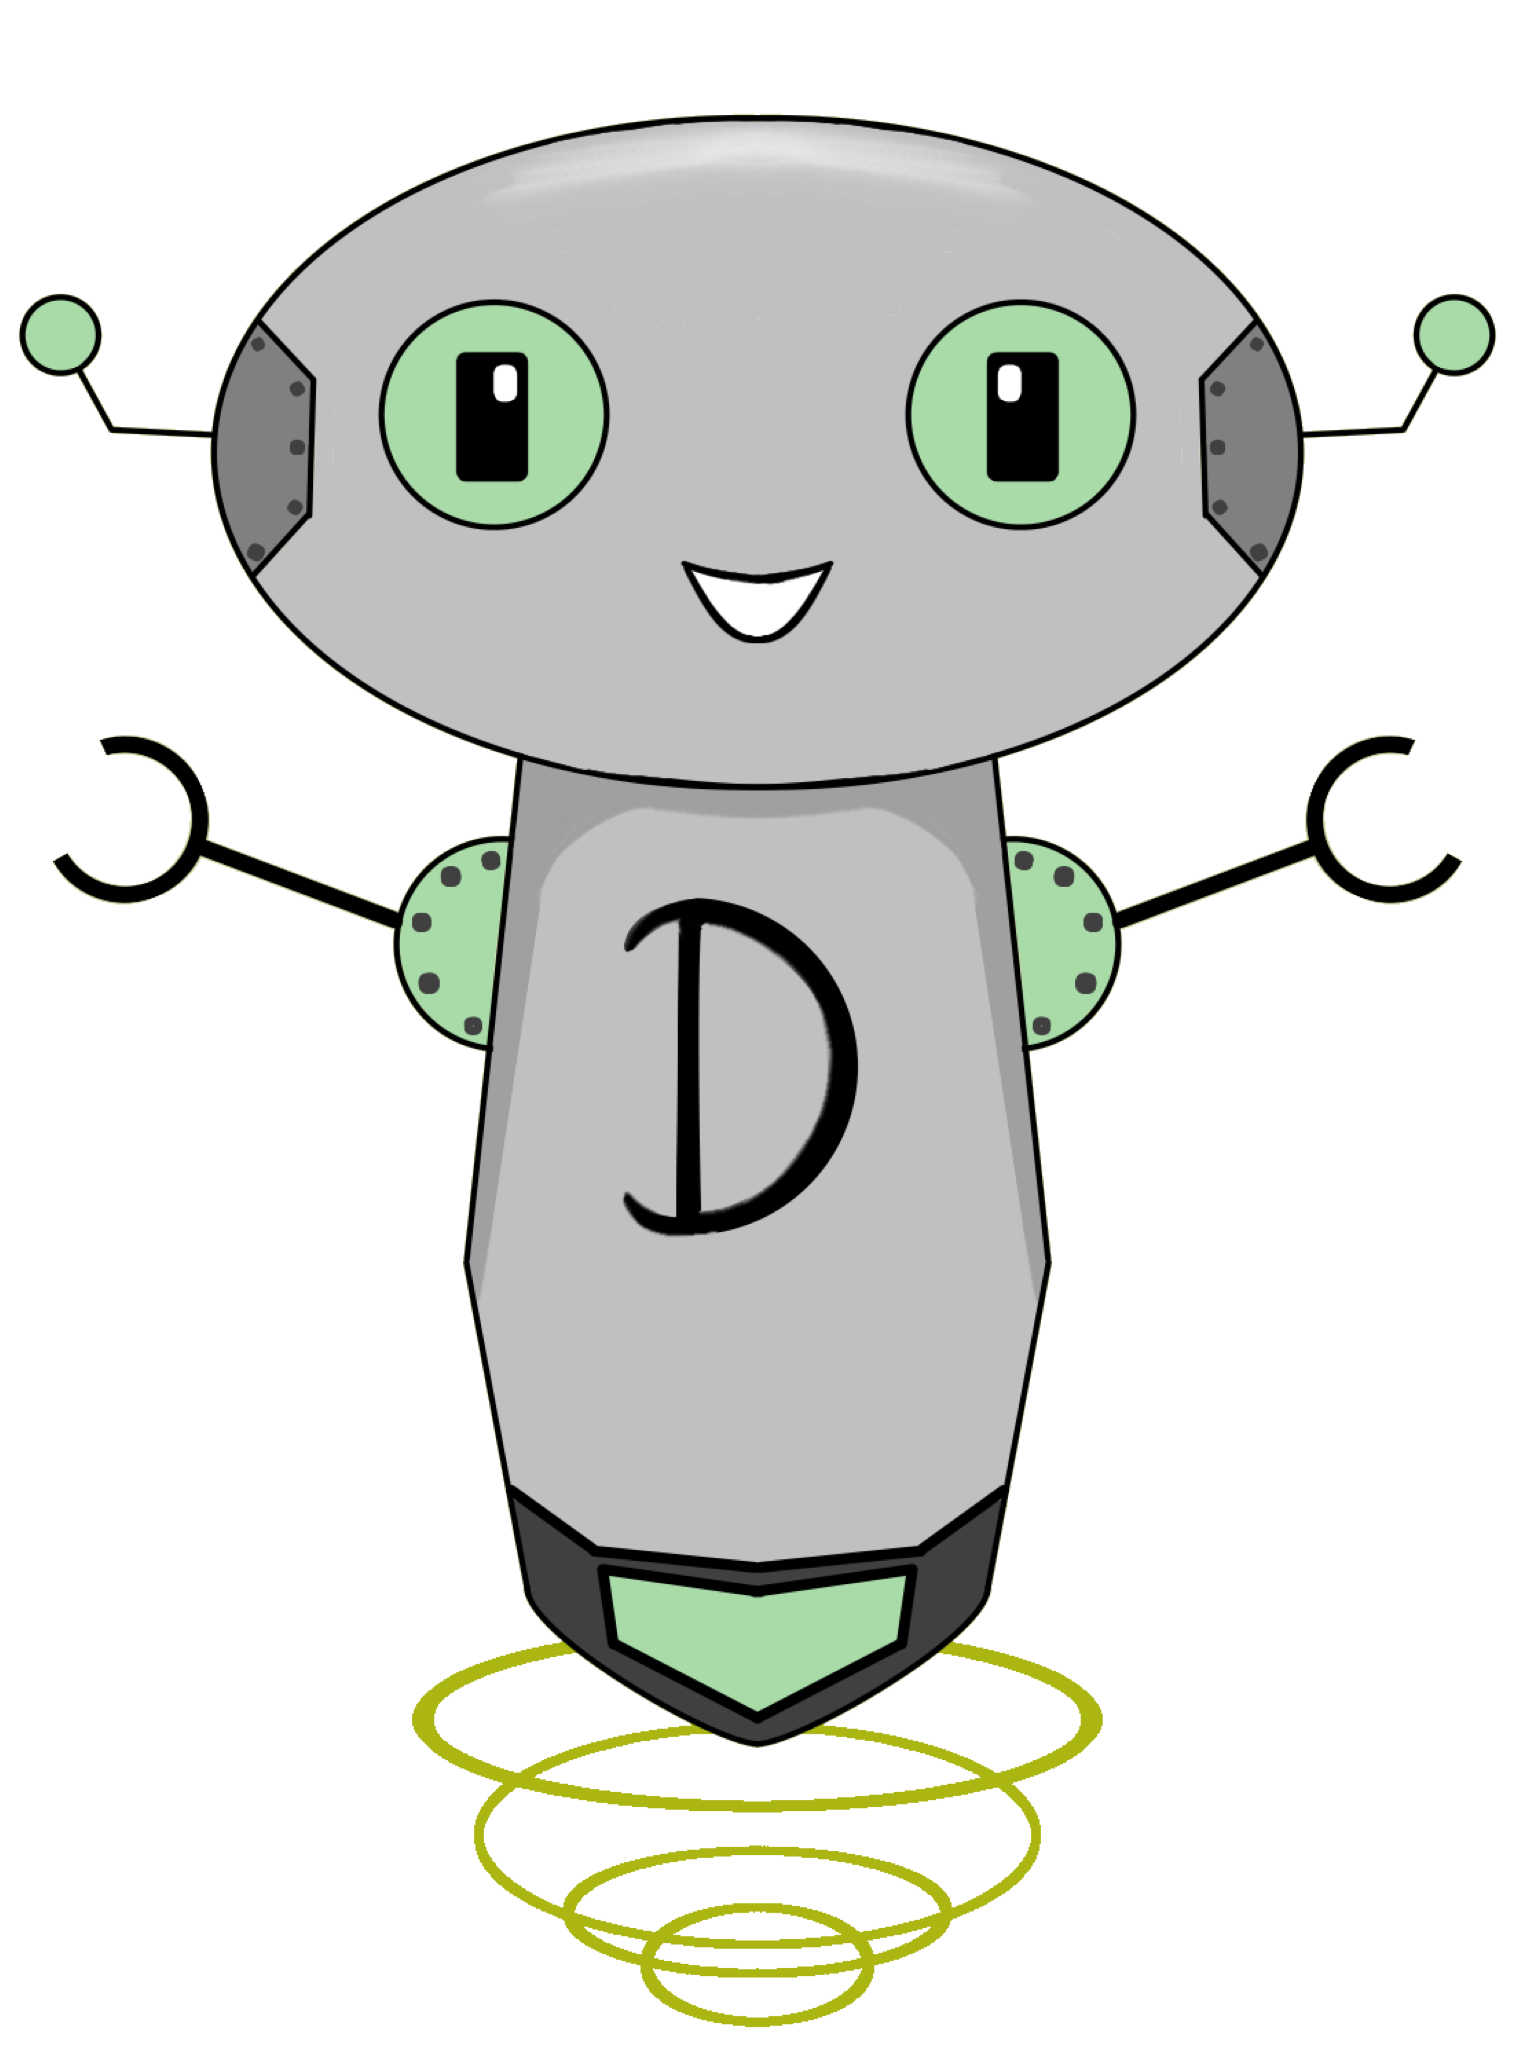
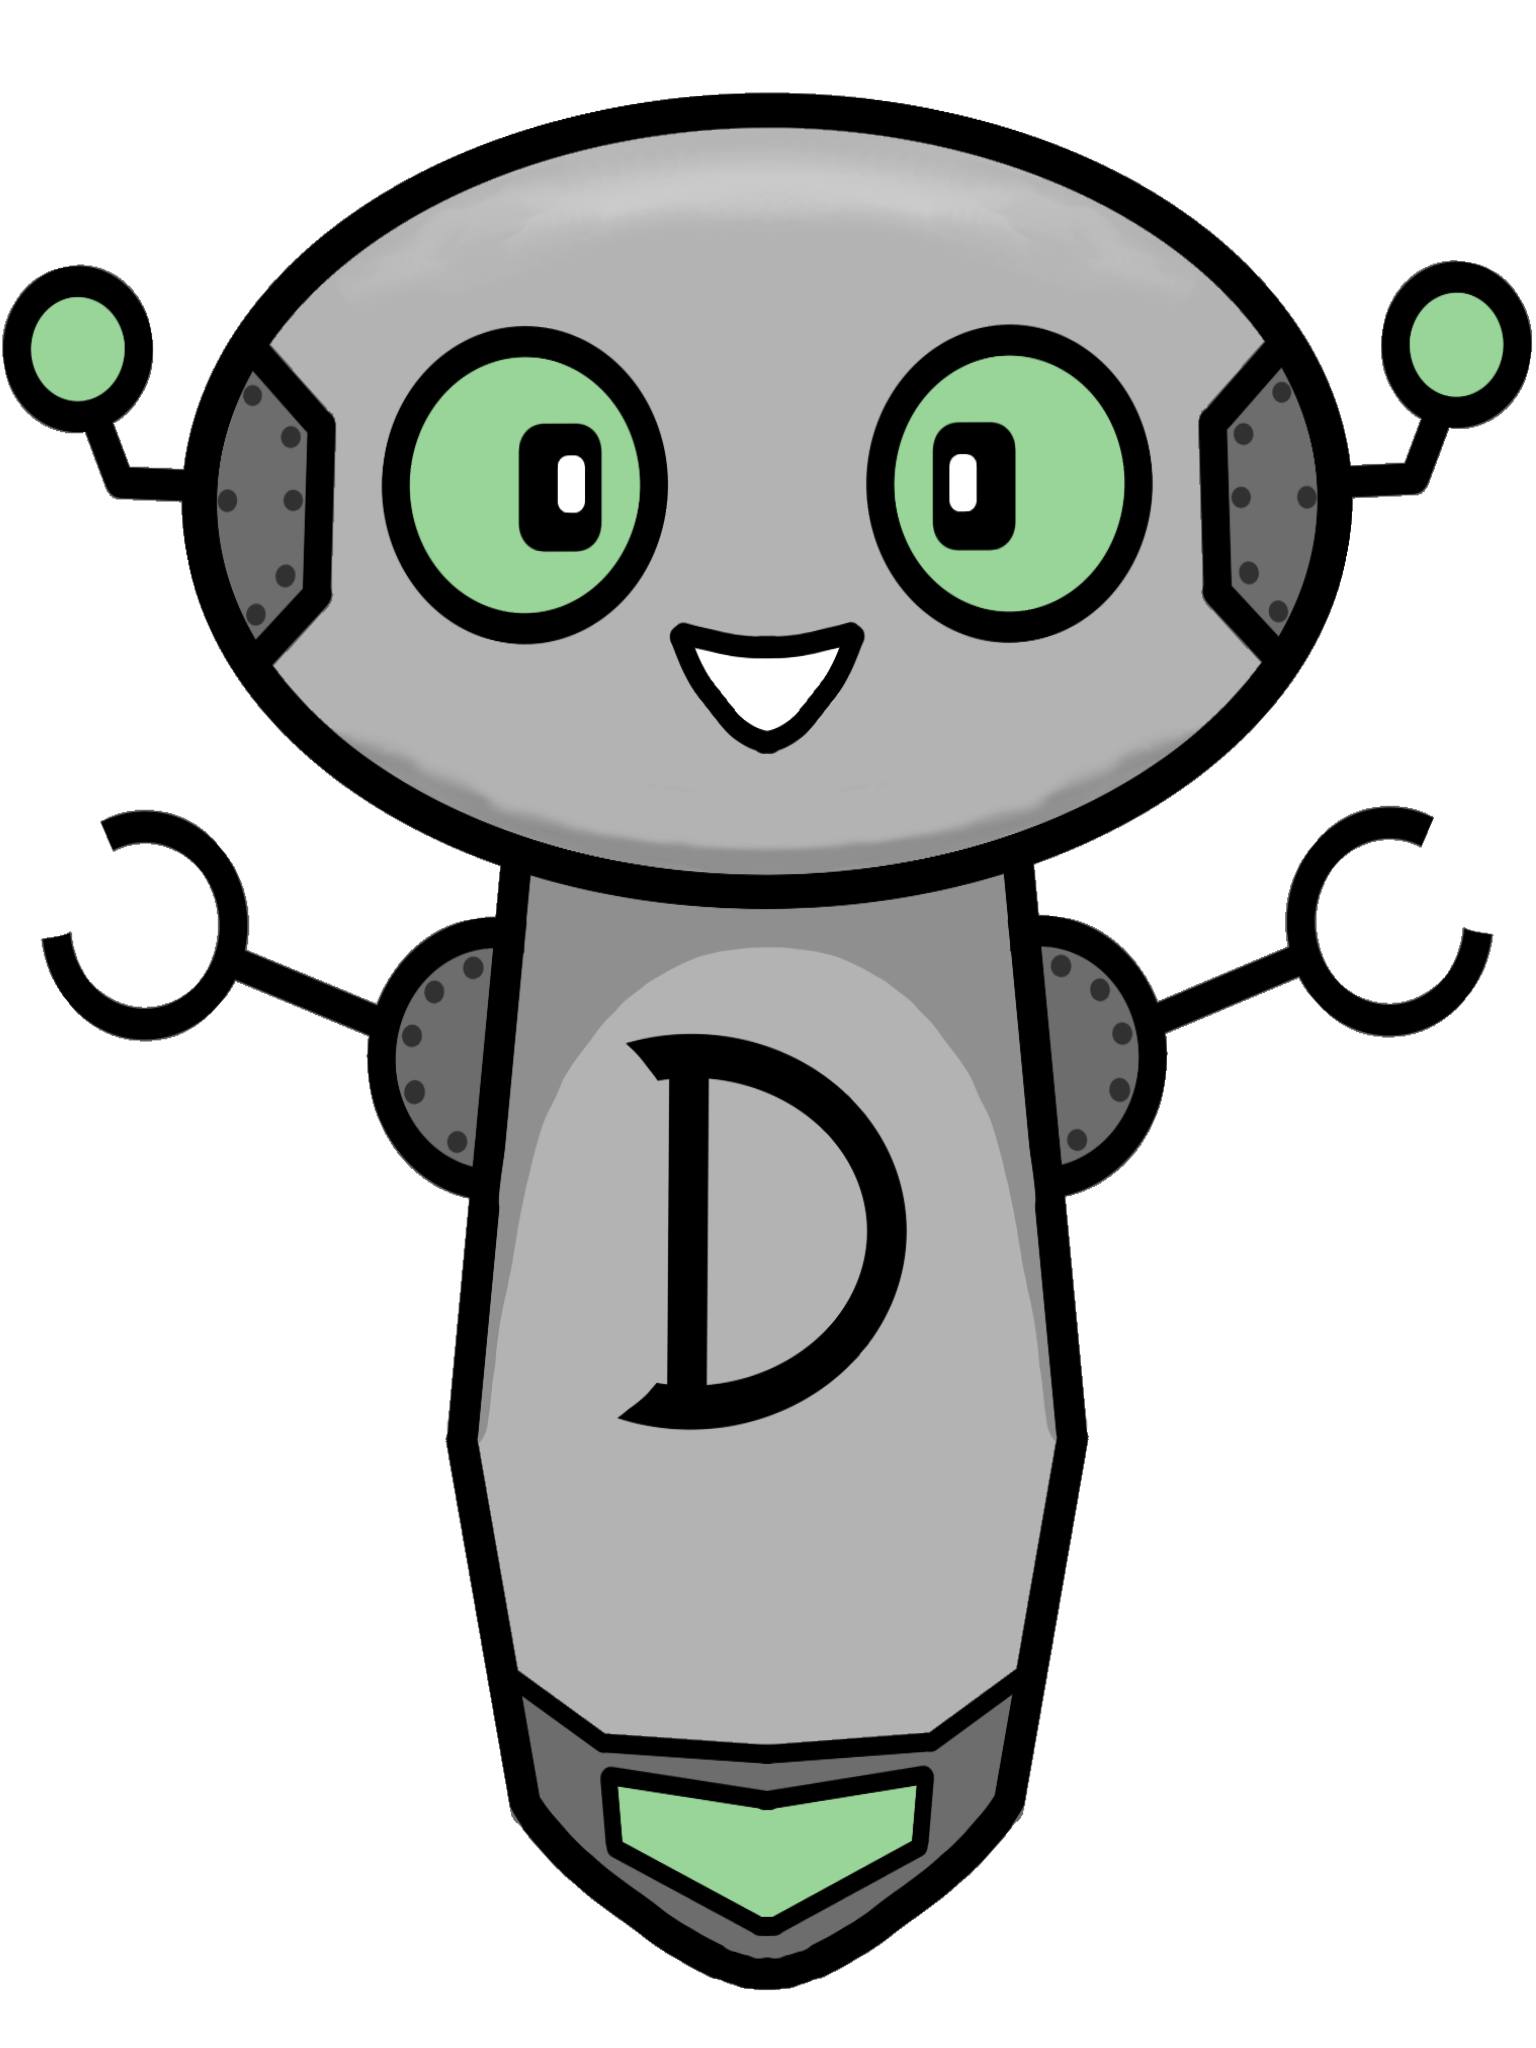
Updated robots, finished asymmetric vs symmetric, started encrypt decrypt

Changed region(s): [[0.0, 0.0312, 1.0, 1.0]]

diff --git a/src/tool/BuildingBlocks/Encrypt_Decrypt.java b/src/tool/BuildingBlocks/Encrypt_Decrypt.java
@@ -1,10 +1,20 @@
 package tool.BuildingBlocks;
 
+
+import javafx.geometry.Insets;
+import javafx.scene.control.TextField;
 import javafx.scene.layout.BorderPane;
+import javafx.scene.layout.HBox;
+import javafx.scene.layout.StackPane;
 import javafx.scene.layout.VBox;
+import javafx.scene.paint.Color;
+import javafx.scene.shape.Rectangle;
 import javafx.scene.text.Font;
 import javafx.scene.text.Text;
 import javafx.scene.text.TextAlignment;
+import tool.Graphics.Arrow;
+import tool.Graphics.Robot;
+
 
 /**
  * Created by Phillipa on 10/10/2015.
@@ -14,40 +24,105 @@ public class Encrypt_Decrypt {
 
 
     public static void start(BorderPane bp) {
-
+        setUpLeft(bp);
+        setUpRight(bp);
+        setUpBottom(bp);
     }
 
 
-    public void setUpLeft(BorderPane bp){
-        VBox vb= new VBox();
-        vb.setSpacing(30);
+    public static void setUpLeft(BorderPane bp){
 
-        Text title = new Text("Encryption and Decryption");
-        textSettings(title);
-
-        Text desc = new Text("The heart of all cryptography methods is encryption and decryption. "+
-                            "This is the ability to transform a message into a form that cannot be read "+
-                            "until it is decrypted. Most methods use a key for this which is used on the "+
-                            "message to encrypt and decrypt it. This key is normally kept secret.");
-        textSettings(desc);
-
-        vb.getChildren().addAll(title,desc);
-        bp.setLeft(vb);
+        bp.setLeft(encryptInfo());
 
 
     }
 
 
-    public void setUpRight(BorderPane bp) {
-
+    public static void setUpRight(BorderPane bp) {
+        bp.setRight(decryptInfo());
     }
 
 
-    public void textSettings(Text text){
-        text.setStyle("-fx-font-size:20");
-        text.setWrappingWidth(250);
-        text.setTextAlignment(TextAlignment.valueOf("CENTER"));
+    public static void textSettings(Text text){
+        text.setStyle("-fx-font-size:16");
+        text.setWrappingWidth(300);
+        text.setTextAlignment(TextAlignment.valueOf("LEFT"));
         text.setFont(Font.font("Arial"));
+
+    }
+
+    public static StackPane encryptInfo(){
+        Robot encrypt =new Robot("tool/Files/encrypt.png",Color.web("#cededa"),0,0,"Hello, I'm Encrypt!","Encrypt Says:");
+        StackPane sp = new StackPane();
+        Text speech = new Text("Encryption is my speciality! Encryption is the art of concealing the contents of a message. "+
+        "This is achieved by changing each letter in the message to something else using a key. This key tends to be a number"+
+        " which is used in a formula which is decided by the encryption method. You can check out some of the other building "+
+        "blocks for more information. Once I've encrypted something I pass it to my little brother Decrypt.");
+        return info(sp,encrypt,speech);
+    }
+
+    public static StackPane decryptInfo() {
+        Robot decrypt = new Robot("tool/Files/decrypt.png", Color.web("#8aa7cc"), 0, 0, "Hello, I'm Decrypt!", "Decrypt Says:");
+        StackPane sp = new StackPane();
+        Text speech = new Text("I know everything about Decryption! Decryption happens when a message has been encrypted. My "+
+        "sister transforms the message into gibberish, and it's my job to transform it back into the original message. I "+
+        "need to use my key and a special formula on each letter to transform it back. My key doesn't need to be the same "+
+        "key Encrypt used, it can be totally different! Try out Encryption and Decryption below.");
+        return info(sp,decrypt,speech);
+    }
+
+    public static StackPane info(StackPane sp, Robot robot, Text information){
+        backgroundSetup(550,400,sp,robot.getColor());
+
+        robot.setImageWidth(175);
+        HBox hb = new HBox();
+        VBox vb = new VBox();
+        vb.setSpacing(20);
+        vb.setPadding(new Insets(20,10,10,10));
+        hb.setPadding(new Insets(20,10,10,10));
+
+
+        hb.getChildren().add(robot.getView());
+
+        Text title=robot.getTitle();
+        textSettings(title);
+        textSettings(information);
+
+        vb.getChildren().addAll(title,information);
+        hb.getChildren().add(vb);
+        sp.getChildren().add(hb);
+        return sp;
+    }
+
+    public static void backgroundSetup(int width, int height, StackPane sp,Color c){
+        Rectangle rectangle = new Rectangle();
+        rectangle.setHeight(height);
+        rectangle.setWidth(width);
+        rectangle.setFill(c);
+        rectangle.setArcHeight(height/3);
+        rectangle.setArcWidth(width/3);
+
+        sp.getChildren().add(rectangle);
+    }
+
+    public static void setUpBottom(BorderPane bp){
+        StackPane sp = new StackPane();
+        backgroundSetup(1100,250,sp,Color.web("#c7afc7"));
+
+        HBox textFields= new HBox();
+        encryptToDecrypt(textFields);
+        sp.getChildren().add(textFields);
+        bp.setBottom(sp);
+
+    }
+
+    public static void encryptToDecrypt(HBox hb){
+        TextField encrypt = new TextField();
+        encrypt.setText("Enter your name here!");
+        Arrow arrow =new Arrow(0,10,20,10);
+        hb.getChildren().addAll(encrypt, arrow.getC());
+
+
 
     }
 }

diff --git a/src/tool/BuildingBlocks/Asymmetric_vs_Symmetric.java b/src/tool/BuildingBlocks/Asymmetric_vs_Symmetric.java
@@ -2,14 +2,14 @@ package tool.BuildingBlocks;
 
 import javafx.beans.value.ChangeListener;
 import javafx.beans.value.ObservableValue;
+import javafx.event.ActionEvent;
+import javafx.event.EventHandler;
 import javafx.geometry.Insets;
+import javafx.scene.control.Button;
 import javafx.scene.control.RadioButton;
 import javafx.scene.control.Toggle;
 import javafx.scene.control.ToggleGroup;
-import javafx.scene.layout.BorderPane;
-import javafx.scene.layout.HBox;
-import javafx.scene.layout.StackPane;
-import javafx.scene.layout.VBox;
+import javafx.scene.layout.*;
 import javafx.scene.paint.Color;
 import javafx.scene.shape.Rectangle;
 import javafx.scene.text.Font;
@@ -33,7 +33,7 @@ public class Asymmetric_vs_Symmetric{
     public static void setUpLeft(BorderPane bp) {
 
         VBox vb = new VBox();
-        Robot decrypt =new Robot("tool/Files/decrypt.png",Color.web("#dbccd0"),0,0,"Hello, I'm Decrypt!","Decrypt Says:");
+        Robot decrypt =new Robot("tool/Files/decrypt.png",Color.web("#8aa7cc"),0,0,"Hello, I'm Decrypt!","Decrypt Says:");
         Text information = new Text("Asymmetric methods are cryptography methods in which the key for "+
                 "encryption and decryption are different. This is normally achieved by having a public key and "+
                 "a secret key. One will be used to encrypt the information and the other will be used to decrypt "+
@@ -75,15 +75,42 @@ public class Asymmetric_vs_Symmetric{
 
     public static void setUpRight(BorderPane bp) {
         StackPane sp = new StackPane();
-        backgroundSetup(500,600,sp,Color.web("#c7afc7"));
+        VBox finished = new VBox();
+        finished.setSpacing(20);
+        backgroundSetup(500, 600, sp, Color.web("#c7afc7"));
 
-        VBox vb = new VBox();
-        vb.setPadding(new Insets(60,20,20,20));
-        vb.setSpacing(20);
-        final ToggleGroup radioBtns=radioButtonSetup(vb,"Select a combination");
+        VBox vbEncrypt = new VBox();
+        final ToggleGroup first=setUpVBox("Encrypt's key",vbEncrypt);
+        VBox vbDecrypt = new VBox();
+        final ToggleGroup second =setUpVBox("Decrypt's key",vbDecrypt);
 
-        sp.getChildren().add(vb);
+
+        HBox hb = new HBox();
+        hb.getChildren().addAll(vbEncrypt,vbDecrypt);
+
+
+        Button button = new Button("Click here");
+
+
+        final Text type =new Text("Symmetric");
+        final Text description = new Text("When both users have the same key, whether it is secret or not, then the method type is symmetric ");
+        description.setWrappingWidth(400);
+
+
+        button.setOnAction(new EventHandler<ActionEvent>() {
+            @Override
+            public void handle(ActionEvent event) {
+                String expected1 =(String)first.getSelectedToggle().getUserData();
+                String expected2 =(String)second.getSelectedToggle().getUserData();
+                changeBottom(expected1.equals(expected2),type,description);
+
+            }
+        });
+
+        finished.getChildren().addAll(hb,button,type,description);
+        sp.getChildren().add(finished);
         sp.setPadding(new Insets(10,10,10,10));
+
         bp.setRight(sp);
 
 
@@ -110,23 +137,44 @@ public class Asymmetric_vs_Symmetric{
         sp.getChildren().add(rectangle);
     }
 
+    public static ToggleGroup setUpVBox(String title, VBox vb){
+
+        vb.setPadding(new Insets(60,20,20,20));
+        vb.setSpacing(20);
+        ToggleGroup radioBtns=radioButtonSetup(vb,title);
+        return radioBtns;
+    }
     public static ToggleGroup radioButtonSetup(VBox radio, String title){
         ToggleGroup group = new ToggleGroup();
 
-        RadioButton rb1 = new RadioButton("Public Key & Public Key");
+        RadioButton rb1 = new RadioButton("Public Key");
         rb1.setToggleGroup(group);
-        rb1.setUserData("PP");
-        rb1.isSelected();
+        rb1.setUserData("P");
+        rb1.setSelected(true);
 
-        RadioButton rb2 = new RadioButton("Public Key & Secret Key");
+        RadioButton rb2 = new RadioButton("Secret Key");
         rb2.setToggleGroup(group);
-        rb2.setUserData("PS");
+        rb2.setUserData("S");
 
-        RadioButton rb3 = new RadioButton("Secret Key & Secret Key");
-        rb3.setToggleGroup(group);
-        rb3.setUserData("SS");
 
-        radio.getChildren().addAll(new Text(title),rb1, rb2, rb3);
+
+        radio.getChildren().addAll(new Text(title), rb1, rb2);
         return group;
     }
-}
+
+    public static void changeBottom(Boolean b, Text type, Text desc){
+        if (b){
+
+                type.setText("Symmetric");
+                desc.setText("When both users have the same key, whether it is secret or not, then the method type is symmetric ");
+            }
+            else{
+                type.setText("Asymmetric");
+                desc.setText("When the users have different keys for decryption and encryption then the method is asymmetric ");
+            }
+        }
+
+    }
+
+
+

diff --git a/src/tool/Graphics/Robot.java b/src/tool/Graphics/Robot.java
@@ -1,8 +1,10 @@
 package tool.Graphics;
 
+import javafx.event.EventHandler;
 import javafx.scene.control.Tooltip;
 import javafx.scene.image.Image;
 import javafx.scene.image.ImageView;
+import javafx.scene.input.MouseEvent;
 import javafx.scene.paint.Color;
 import javafx.scene.text.Text;
 
@@ -16,7 +18,7 @@ public class Robot {
     Color color;
     int X;
     int Y;
-    toolTipSpecial toolTip = new toolTipSpecial("","","");
+    toolTipSpecial toolTip;
     Text title;
 
     public Robot(String robot,Color c,int x, int y, String tool, String hello) {
@@ -26,12 +28,15 @@ public class Robot {
         view.setSmooth(true);
         view.setCache(true);
 
+
+
         color= c;
         X=x;
         Y=y;
-        toolTip.setTooltipText(tool);
+        toolTip=new toolTipSpecial(tool,"","");
         Tooltip.install(view,toolTip.getTooltip());
         title= new Text(hello);
+
 
     }
 
@@ -82,6 +87,7 @@ public class Robot {
     public void setColor(Color color) {
         this.color = color;
     }
+
 
 
 }

diff --git a/src/tool/Graphics/Arrow.java b/src/tool/Graphics/Arrow.java
@@ -1,0 +1,40 @@
+package tool.Graphics;
+
+import javafx.scene.canvas.Canvas;
+import javafx.scene.canvas.GraphicsContext;
+import javafx.scene.shape.Line;
+
+/**
+ * Created by Phillipa on 13/10/2015.
+ */
+public class Arrow {
+    int startX,endX;
+    int startY,endY;
+    Canvas c;
+
+    public Arrow(int x,int y, int z, int a) {
+        this.c=new Canvas(z-x,a-y);
+        drawArrow(x,y,z,a);
+
+
+    }
+
+    public void drawArrow(int x,int y, int z, int a){
+        GraphicsContext gc = c.getGraphicsContext2D();
+        gc.strokeLine(x,y,z,a);
+        double angle =Math.toDegrees(Math.atan2(a-y,z-a));
+        int topX= (int) (z+((z-x)/4)*Math.sin(angle+45));
+        int topY=(int) (a+((a-y)/4)*Math.cos(angle+45));
+
+        int bottomX= (int) (z+((z-x)/4)*Math.sin(angle-45));
+        int bottomY=(int) (a+((a-y)/4)*Math.cos(angle-45));
+
+        gc.strokeLine(z,a,topX,topY);
+        gc.strokeLine(z,a,bottomX,bottomY);
+
+    }
+
+    public Canvas getC() {
+        return c;
+    }
+}
